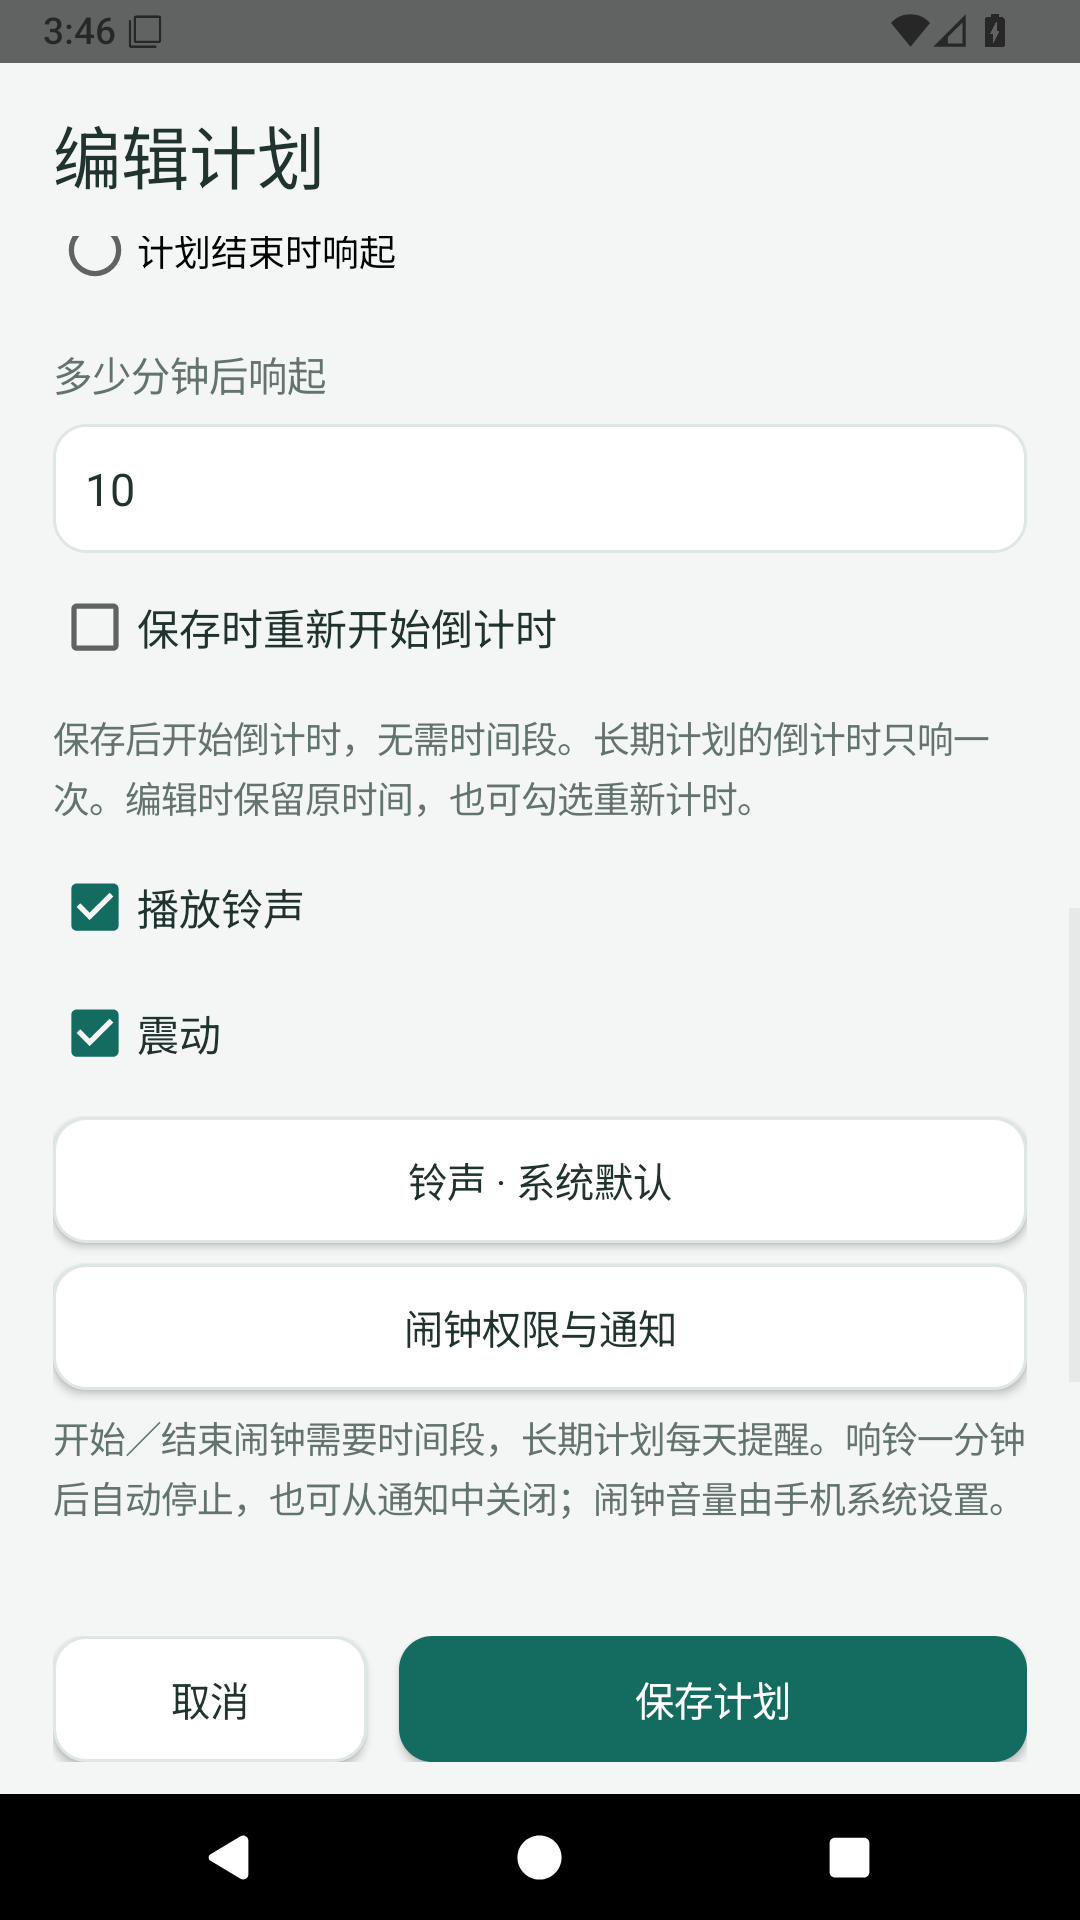
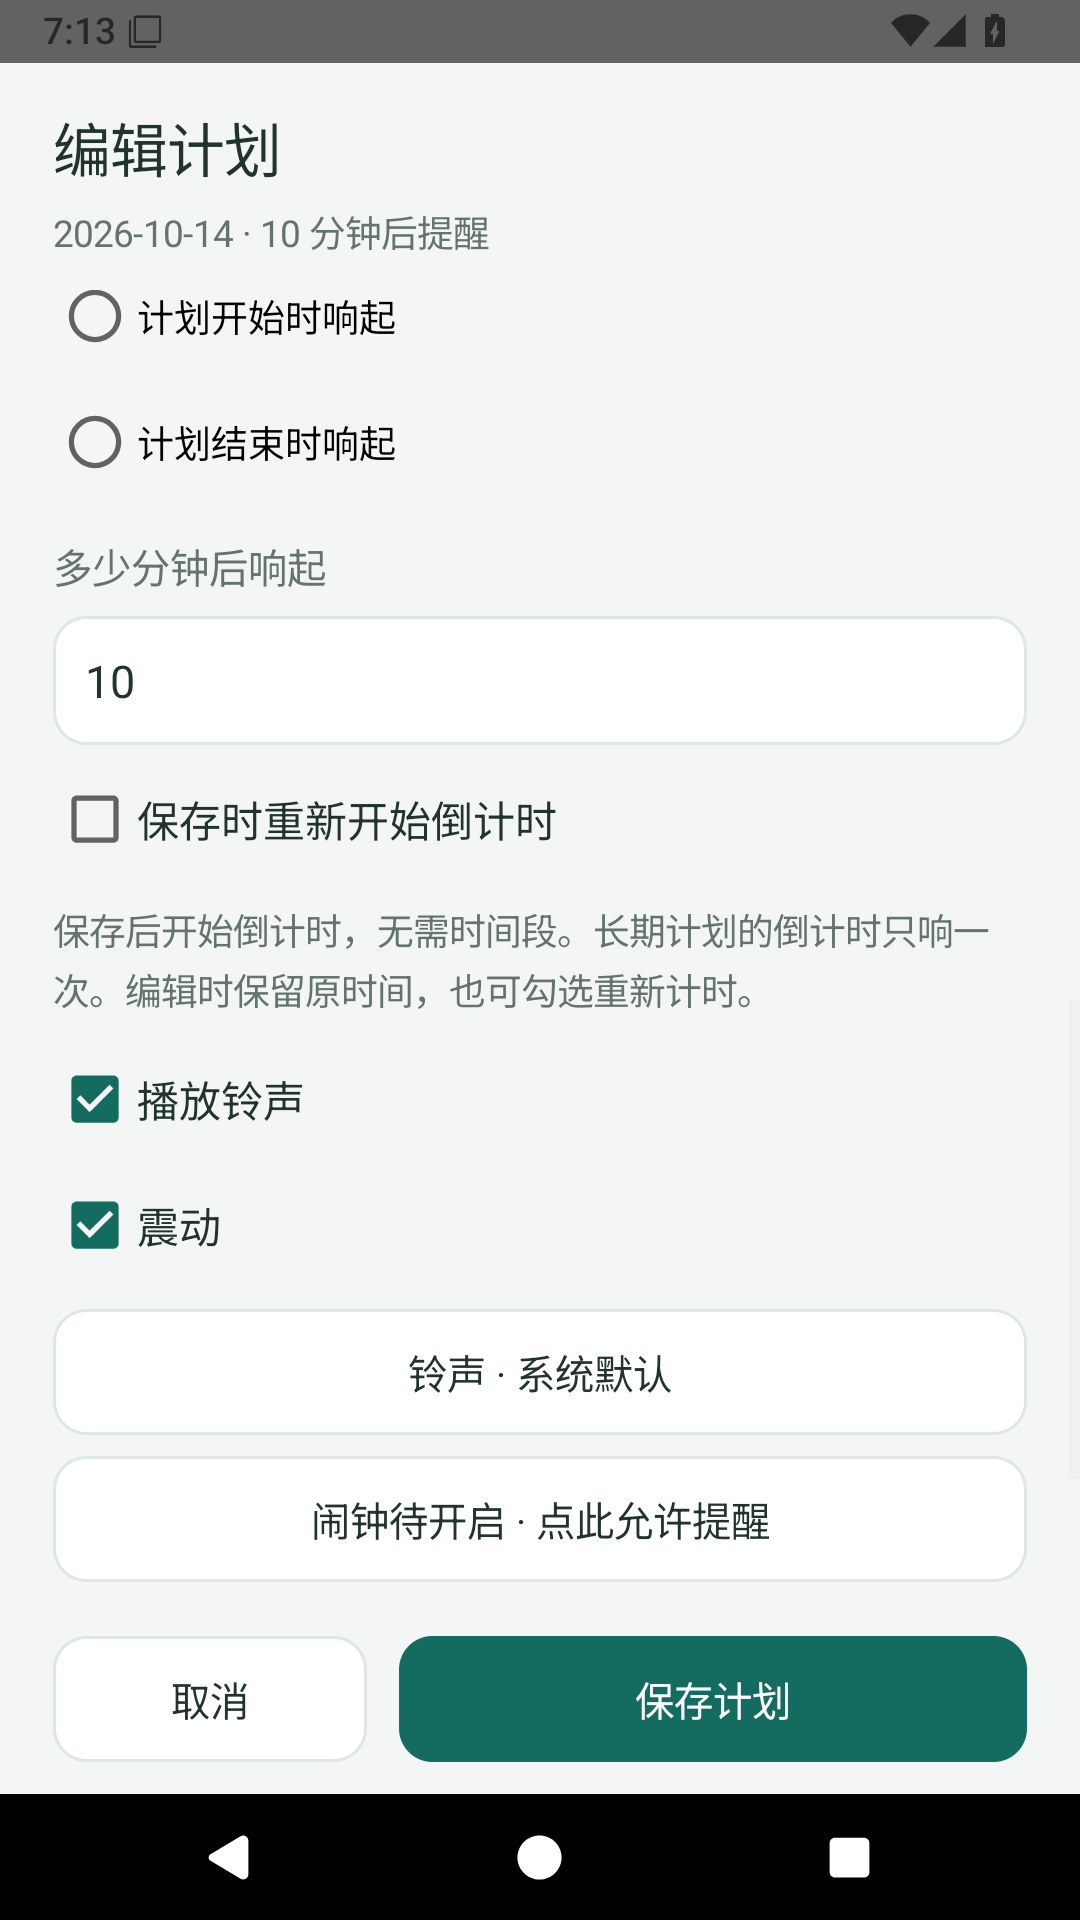
Refresh illustrated help with verified Android v1.7 interfaces

diff --git a/README.md b/README.md
@@ -45,6 +45,8 @@
 
 ![Windows 时间表](assets/timetable.png)
 
+![Android 时间表](assets/android-timetable.png)
+
 - Windows 点击左侧“时间表”，Android 点击底部“时间表”，查看所选日期 00:00–24:00 的安排。支持前一天、后一天、回到今天与定位当前时段；红线表示今天的系统时间。
 - 电脑拖选空白区域，手机先点开始位置、再点结束位置，即可添加计划。选中的日期与时间自动填入编辑窗口，可通过原生时间选择器精确到分钟；添加按钮也可直接输入时间，无需拖动或点选。
 - 点击时间块查看详情、编辑、划去或删除。短计划及文字缩略的计划可从上方选择框查看完整内容；“未安排时间”按钮展示当天仅有日期的计划。没有日期的计划仍在“待安排”中。
@@ -87,7 +89,7 @@
 
 ![安卓完成计划](assets/android-completed.png)
 
-![安卓编辑计划](assets/android-editor.png)
+![安卓快速添加计划](assets/android-editor.png)
 
 ### 安卓源码构建
 
